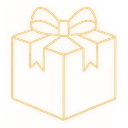
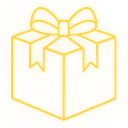
定名假千金逆袭，并补上启动页与更亮的主界面。
启动图带健康游戏忠告，任务改到右下，按钮金色调亮。关掉开发者工具对 bundle 的 ES6 转译，避免启动时去找不存在的 @swc/runtime。

Changed region(s): [[0.0625, 0.0312, 0.9375, 0.9688]]

diff --git a/src/scenes/HomeScene.ts b/src/scenes/HomeScene.ts
@@ -1,6 +1,6 @@
 /**
- * 主界面：顶部身价 / 钱 / 每秒收益和主线任务条，中间是当前造型的女主立绘（点她赚钱），
- * 背景随造型切换，两侧广告加速，底部五个面板入口。布局按 750 设计宽。
+ * 主界面：顶部身价 / 钱 / 每秒收益，中间是当前造型的女主立绘（点她赚钱），
+ * 背景随造型切换，两侧广告加速，主线任务卡片在右下，底部五个面板入口。布局按 750 设计宽。
  */
 import * as PIXI from 'pixi.js';
 import { ICONS, outfitFigurePath, outfitScenePath } from '@/data/art';
@@ -38,7 +38,8 @@ const OFFLINE_MIN_SEC = 60;
 const NAV_H = 120;
 const HUD_H = 168;
 const GOAL_BAR_INSET = 56;
-const QUEST_H = 64;
+const QUEST_W = 292;
+const QUEST_H = 152;
 
 export class HomeScene implements Scene {
   readonly name = 'home';
@@ -93,13 +94,13 @@ export class HomeScene implements Scene {
     this._boostBtn = new IconButton({ icon: ICONS.live, label: '直播带货', sub: '收益×2', size: 96, onTap: () => this._liveBoost() });
     this._rushBtn = new IconButton({ icon: ICONS.gift, label: '接急单', sub: '', size: 96, onTap: () => this._rushOrder() });
 
-    this._questBtn = new Button({ width: 120, height: 48, label: '领取', variant: 'gold', fontSize: 24, onTap: () => this._claimQuest() });
+    this._questBtn = new Button({ width: 220, height: 46, label: '领取', variant: 'gold', fontSize: 24, onTap: () => this._claimQuest() });
     this._buildQuest();
     this._buildNav();
 
     this.container.addChild(
       this._bg, this._bgSprite, this._hudCard, this._netWorthLabel, this._netWorth, this._money, this._income,
-      this._goalLabel, this._goalBar, this._quest, this._tapArea, this._floatLayer,
+      this._goalLabel, this._goalBar, this._tapArea, this._floatLayer, this._quest,
       this._skillBtn, this._boostBtn, this._rushBtn, this._nav,
     );
 
@@ -167,10 +168,12 @@ export class HomeScene implements Scene {
     this._goalBar.position.set(GOAL_BAR_INSET, hudY + 146);
 
     const hudBottom = hudY + HUD_H;
-    this._quest.position.set(24, hudBottom + 12);
     const navTop = bottom - NAV_H - 16;
     const skillY = navTop - 62;
-    this._layoutFigure(hudBottom + 12 + QUEST_H + 12, skillY - 52);
+    // 贴在点按提示上方、靠右，避开顶部信息条和正中的手艺按钮
+    const tapPillTop = skillY - 116;
+    this._quest.position.set(W - 20 - QUEST_W, tapPillTop - 12 - QUEST_H);
+    this._layoutFigure(hudBottom + 8, skillY - 52);
     const sideY = hudBottom + (skillY - hudBottom) * 0.42;
     this._boostBtn.position.set(80, sideY);
     this._rushBtn.position.set(W - 80, sideY);
@@ -247,32 +250,35 @@ export class HomeScene implements Scene {
   }
 
   private _buildQuest(): void {
-    const w = Game.logicWidth - 48;
-    drawGlass(this._questBg, 0, 0, w, QUEST_H, QUEST_H / 2, 0.55);
-    const tagBg = new PIXI.Graphics().beginFill(COLORS.champagne).drawRoundedRect(12, 14, 64, QUEST_H - 28, (QUEST_H - 28) / 2).endFill();
+    drawGlass(this._questBg, 0, 0, QUEST_W, QUEST_H, 28, 0.72);
+    const tagBg = new PIXI.Graphics().beginFill(COLORS.champagne).drawRoundedRect(16, 14, 72, 32, 16).endFill();
     this._questTag.anchor.set(0.5);
-    this._questTag.position.set(44, QUEST_H / 2);
+    this._questTag.position.set(52, 30);
     this._questTitle.anchor.set(0, 0.5);
-    this._questTitle.position.set(92, QUEST_H / 2);
-    this._questInfo.anchor.set(1, 0.5);
-    this._questInfo.position.set(w - 24, QUEST_H / 2);
-    this._questBtn.position.set(w - 72, QUEST_H / 2);
+    this._questTitle.position.set(16, 68);
+    this._questInfo.anchor.set(0, 0.5);
+    this._questInfo.position.set(16, 116);
+    this._questBtn.position.set(QUEST_W / 2, 116);
     this._quest.addChild(this._questBg, tagBg, this._questTag, this._questTitle, this._questInfo, this._questBtn);
     this._quest.eventMode = 'static';
-    this._quest.hitArea = new PIXI.Rectangle(0, 0, w, QUEST_H);
+    this._quest.hitArea = new PIXI.Rectangle(0, 0, QUEST_W, QUEST_H);
+  }
+
+  private _fitLine(text: PIXI.Text, maxW: number): void {
+    text.scale.set(1);
+    if (text.width > maxW) text.scale.set(maxW / text.width);
   }
 
   private _refreshQuest(): void {
     const q = GameState.quest;
     this._quest.visible = !!q;
     if (!q) return;
-    const progress = q.done ? '' : `（${formatMoney(q.current)}/${formatMoney(q.target)}）`;
-    this._questTitle.text = `${q.quest.title}${progress}`;
+    this._questTitle.text = q.quest.title;
+    this._fitLine(this._questTitle, QUEST_W - 32);
     this._questBtn.visible = q.done;
     this._questInfo.visible = !q.done;
-    this._questInfo.text = `奖励 ¥${formatMoney(q.reward)}`;
-    const maxW = Game.logicWidth - 48 - 92 - (q.done ? 150 : this._questInfo.width + 40);
-    this._questTitle.scale.set(Math.min(1, maxW / Math.max(1, this._questTitle.width / this._questTitle.scale.x)));
+    this._questInfo.text = `${formatMoney(q.current)}/${formatMoney(q.target)}  ·  奖励 ¥${formatMoney(q.reward)}`;
+    this._fitLine(this._questInfo, QUEST_W - 32);
   }
 
   private _claimQuest(): void {

diff --git a/src/scenes/LoadingScene.ts b/src/scenes/LoadingScene.ts
@@ -3,22 +3,51 @@ import type { Scene } from '@/core/SceneManager';
 import { Game } from '@/core/Game';
 import { ProgressBar } from '@/ui/ProgressBar';
 import { COLORS, makeText } from '@/ui/theme';
+import { applyFit, fitCover, gameTexture, isTextureReady, whenTextureReady } from '@/utils/assets';
 
-/** Loading 图（boot/loading.jpg）到位前先用纯色 + 标题。 */
+const LOADING_BG = 'boot/loading.jpg';
+const NOTICE_H = 168;
+
+/** 国家新闻出版署《健康游戏忠告》，启动页底部原样展示。 */
+const NOTICE_LINES = [
+  '抵制不良游戏，拒绝盗版游戏。',
+  '注意自我保护，谨防受骗上当。',
+  '适度游戏益脑，沉迷游戏伤身。',
+  '合理安排时间，享受健康生活。',
+] as const;
+
+/** 首屏：boot/loading.jpg 盖满，标题已经做在图里。图还没到时用纯色加游戏名兜底。 */
 export class LoadingScene implements Scene {
   readonly name = 'loading';
   readonly container = new PIXI.Container();
   private readonly _bg = new PIXI.Graphics();
-  private readonly _title = makeText('被退婚那天\n我开始身价暴涨', 64, COLORS.roseDeep, true);
+  private readonly _photo = new PIXI.Sprite(PIXI.Texture.EMPTY);
+  private readonly _title = makeText('假千金逆袭', 64, COLORS.roseDeep, true);
   private readonly _tip = makeText('正在加载…', 26, COLORS.inkSoft);
-  private readonly _bar = new ProgressBar(460, 18, COLORS.gold);
+  private readonly _bar = new ProgressBar(460, 18, COLORS.champagne, COLORS.white, 0.28);
+  private readonly _notice = new PIXI.Container();
+  private readonly _noticeBg = new PIXI.Graphics();
+  private readonly _noticeTitle = makeText('健康游戏忠告', 22, COLORS.champagne, true);
+  private readonly _noticeLines = NOTICE_LINES.map((line) => makeText(line, 20, COLORS.textOnGlass));
 
   constructor() {
     this._title.anchor.set(0.5);
-    this._title.style.align = 'center';
-    this._title.style.lineHeight = 92;
     this._tip.anchor.set(0.5);
-    this.container.addChild(this._bg, this._title, this._bar, this._tip);
+    this._tip.style.dropShadow = true;
+    this._tip.style.dropShadowColor = COLORS.glass;
+    this._tip.style.dropShadowBlur = 6;
+    this._tip.style.dropShadowDistance = 0;
+    this._tip.style.dropShadowAlpha = 0.85;
+    this._photo.texture = gameTexture(LOADING_BG);
+    whenTextureReady(LOADING_BG, () => {
+      this._title.visible = false;
+      this._tip.style.fill = COLORS.champagne;
+      this.relayout();
+    });
+    this._noticeTitle.anchor.set(0.5, 0);
+    for (const line of this._noticeLines) line.anchor.set(0.5, 0);
+    this._notice.addChild(this._noticeBg, this._noticeTitle, ...this._noticeLines);
+    this.container.addChild(this._bg, this._photo, this._title, this._bar, this._tip, this._notice);
   }
 
   onEnter(): void {
@@ -29,9 +58,27 @@ export class LoadingScene implements Scene {
     const W = Game.logicWidth;
     const H = Game.logicHeight;
     this._bg.clear().beginFill(COLORS.bg).drawRect(0, 0, W, H).endFill();
+    const ready = isTextureReady(this._photo.texture);
+    this._photo.visible = ready;
+    this._title.visible = !ready;
+    if (ready) {
+      applyFit(this._photo, fitCover(this._photo.texture.width, this._photo.texture.height, W, H));
+      this._tip.style.fill = COLORS.champagne;
+    }
     this._title.position.set(W / 2, H * 0.38);
-    this._bar.position.set((W - 460) / 2, H * 0.72);
-    this._tip.position.set(W / 2, H * 0.72 + 52);
+    const noticeTop = H - Game.safeBottom - NOTICE_H;
+    this._noticeBg.clear()
+      .beginFill(0x0c0809, 0.82)
+      .drawRect(0, noticeTop, W, NOTICE_H + Game.safeBottom)
+      .endFill();
+    this._noticeBg.lineStyle(1, COLORS.champagne, 0.35)
+      .moveTo(48, noticeTop)
+      .lineTo(W - 48, noticeTop);
+    this._noticeTitle.position.set(W / 2, noticeTop + 14);
+    this._noticeLines.forEach((line, i) => line.position.set(W / 2, noticeTop + 48 + i * 28));
+    const barY = noticeTop - 78;
+    this._bar.position.set((W - 460) / 2, barY);
+    this._tip.position.set(W / 2, barY + 40);
   }
 
   setProgress(p: number): void {

diff --git a/src/ui/theme.ts b/src/ui/theme.ts
@@ -8,8 +8,8 @@ export const COLORS = {
   cardMuted: 0xF4ECE8,
   rose: 0xE07A8B,
   roseDeep: 0xC2566B,
-  gold: 0xD9A35B,
-  goldLight: 0xF6D9A6,
+  gold: 0xF0B429,
+  goldLight: 0xFFE08A,
   ink: 0x3A2A2E,
   inkSoft: 0x8C7479,
   disabled: 0xD8CCCF,
@@ -17,8 +17,8 @@ export const COLORS = {
   white: 0xFFFFFF,
   /** 主界面和产业地图：烟灰磨砂玻璃 + 香槟金描边，压在写实背景上不抢人物 */
   glass: 0x1C1417,
-  champagne: 0xECCE96,
-  champagneDeep: 0xC9A266,
+  champagne: 0xFFD15C,
+  champagneDeep: 0xE6A83A,
   textOnGlass: 0xF7F0EA,
   textOnGlassSoft: 0xCFC3BC,
 } as const;
@@ -29,7 +29,7 @@ export const FONT_NUM = 'Didot, Georgia, Times New Roman, serif';
 export const GLASS_ALPHA = 0.5;
 
 export function drawGlass(g: PIXI.Graphics, x: number, y: number, w: number, h: number, r: number, alpha = GLASS_ALPHA): PIXI.Graphics {
-  g.lineStyle(2, COLORS.champagne, 0.55, 0);
+  g.lineStyle(2.5, COLORS.champagne, 0.95, 0);
   g.beginFill(COLORS.glass, alpha).drawRoundedRect(x, y, w, h, r).endFill();
   g.lineStyle(0);
   return g;

diff --git a/src/ui/Button.ts b/src/ui/Button.ts
@@ -33,7 +33,7 @@ export class Button extends PIXI.Container {
     this._label = makeText(opts.label, size, textColor, true);
     this._label.anchor.set(0.5);
     this._sub = opts.sub !== undefined
-      ? makeText(opts.sub, Math.round(size * 0.72), variant === 'glass' ? COLORS.textOnGlassSoft : textColor)
+      ? makeText(opts.sub, Math.round(size * 0.72), variant === 'glass' ? COLORS.champagneDeep : textColor)
       : null;
     this._sub?.anchor.set(0.5);
     this.addChild(this._bg, this._label);
@@ -75,7 +75,7 @@ export class Button extends PIXI.Container {
     const variant = this._opts.variant ?? 'solid';
     this._bg.clear();
     if (variant === 'glass') {
-      drawGlass(this._bg, -w / 2, -h / 2, w, h, h / 2);
+      drawGlass(this._bg, -w / 2, -h / 2, w, h, h / 2, 0.72);
       this.alpha = this._enabled ? 1 : 0.6;
     } else if (variant === 'gold') {
       const color = this._enabled ? COLORS.champagne : COLORS.disabled;

diff --git a/src/main.ts b/src/main.ts
@@ -18,7 +18,7 @@ import { ensureBootSubpackages } from '@/utils/bootSubpackages';
 import { preloadTextures } from '@/utils/assets';
 import { outfitFigurePath, outfitScenePath } from '@/data/art';
 
-const BOOT_HOLD_MS = 480;
+const BOOT_HOLD_MS = 1800;
 
 CloudSyncManager.prewarm();
 
@@ -101,7 +101,7 @@ async function main(): Promise<void> {
 
   // 首帧之后再挂分享菜单，太早调用真机会静默失败
   globalThis.setTimeout(() => {
-    Platform.bindShareMenu(() => '被退婚那天，我开始身价暴涨');
+    Platform.bindShareMenu(() => '假千金逆袭');
   }, 0);
 
   analytics.trackSessionStart({ entry: 'main_boot', cloud_sync_status: startupSync.status });

diff --git a/vite.config.ts b/vite.config.ts
@@ -101,7 +101,8 @@ export default defineConfig({
   },
   plugins: [pixiUnsafeEvalPlugin(), assemblePlatformsPlugin()],
   build: {
-    // 微信上传校验不认 ES2020 的 ?? / ?.
+    // 微信上传校验不认 ES2020 的 ?? / ?.。class 留给基础库原生执行，不要再降到 es5：
+    // 当前 esbuild 降不了 const，而且开发者工具若再编一遍 class 会插入 @swc/runtime。
     target: 'es2017',
     outDir: BUNDLE_DIR,
     assetsInlineLimit: 0,

diff --git a/src/ui/IconButton.ts b/src/ui/IconButton.ts
@@ -27,7 +27,7 @@ export class IconButton extends PIXI.Container {
     super();
     const size = _opts.size ?? 104;
     const plate = _opts.plate ?? true;
-    if (plate) drawGlass(this._plate, -size / 2, -size / 2, size, size, size / 2);
+    if (plate) drawGlass(this._plate, -size / 2, -size / 2, size, size, size / 2, 0.72);
     this._icon = new PIXI.Sprite(gameTexture(_opts.icon));
     this._icon.anchor.set(0.5);
     const iconSize = plate ? size * 0.5 : size * 0.62;

diff --git a/docs/策划案.md b/docs/策划案.md
@@ -1,7 +1,7 @@
-# 《被退婚那天，我开始身价暴涨》策划案 v0.1
+# 《假千金逆袭》策划案 v0.1
 
 > 女性向 · 短剧逆袭 · 点击放置增量 · 微信小游戏（竖屏）
-> 暂定名，备选：《假千金她身价过亿》《全城都在等她回头》
+> 游戏名已定为《假千金逆袭》。剧情长标题仍是「被退婚那天，我开始身价暴涨」。
 
 ---
 
